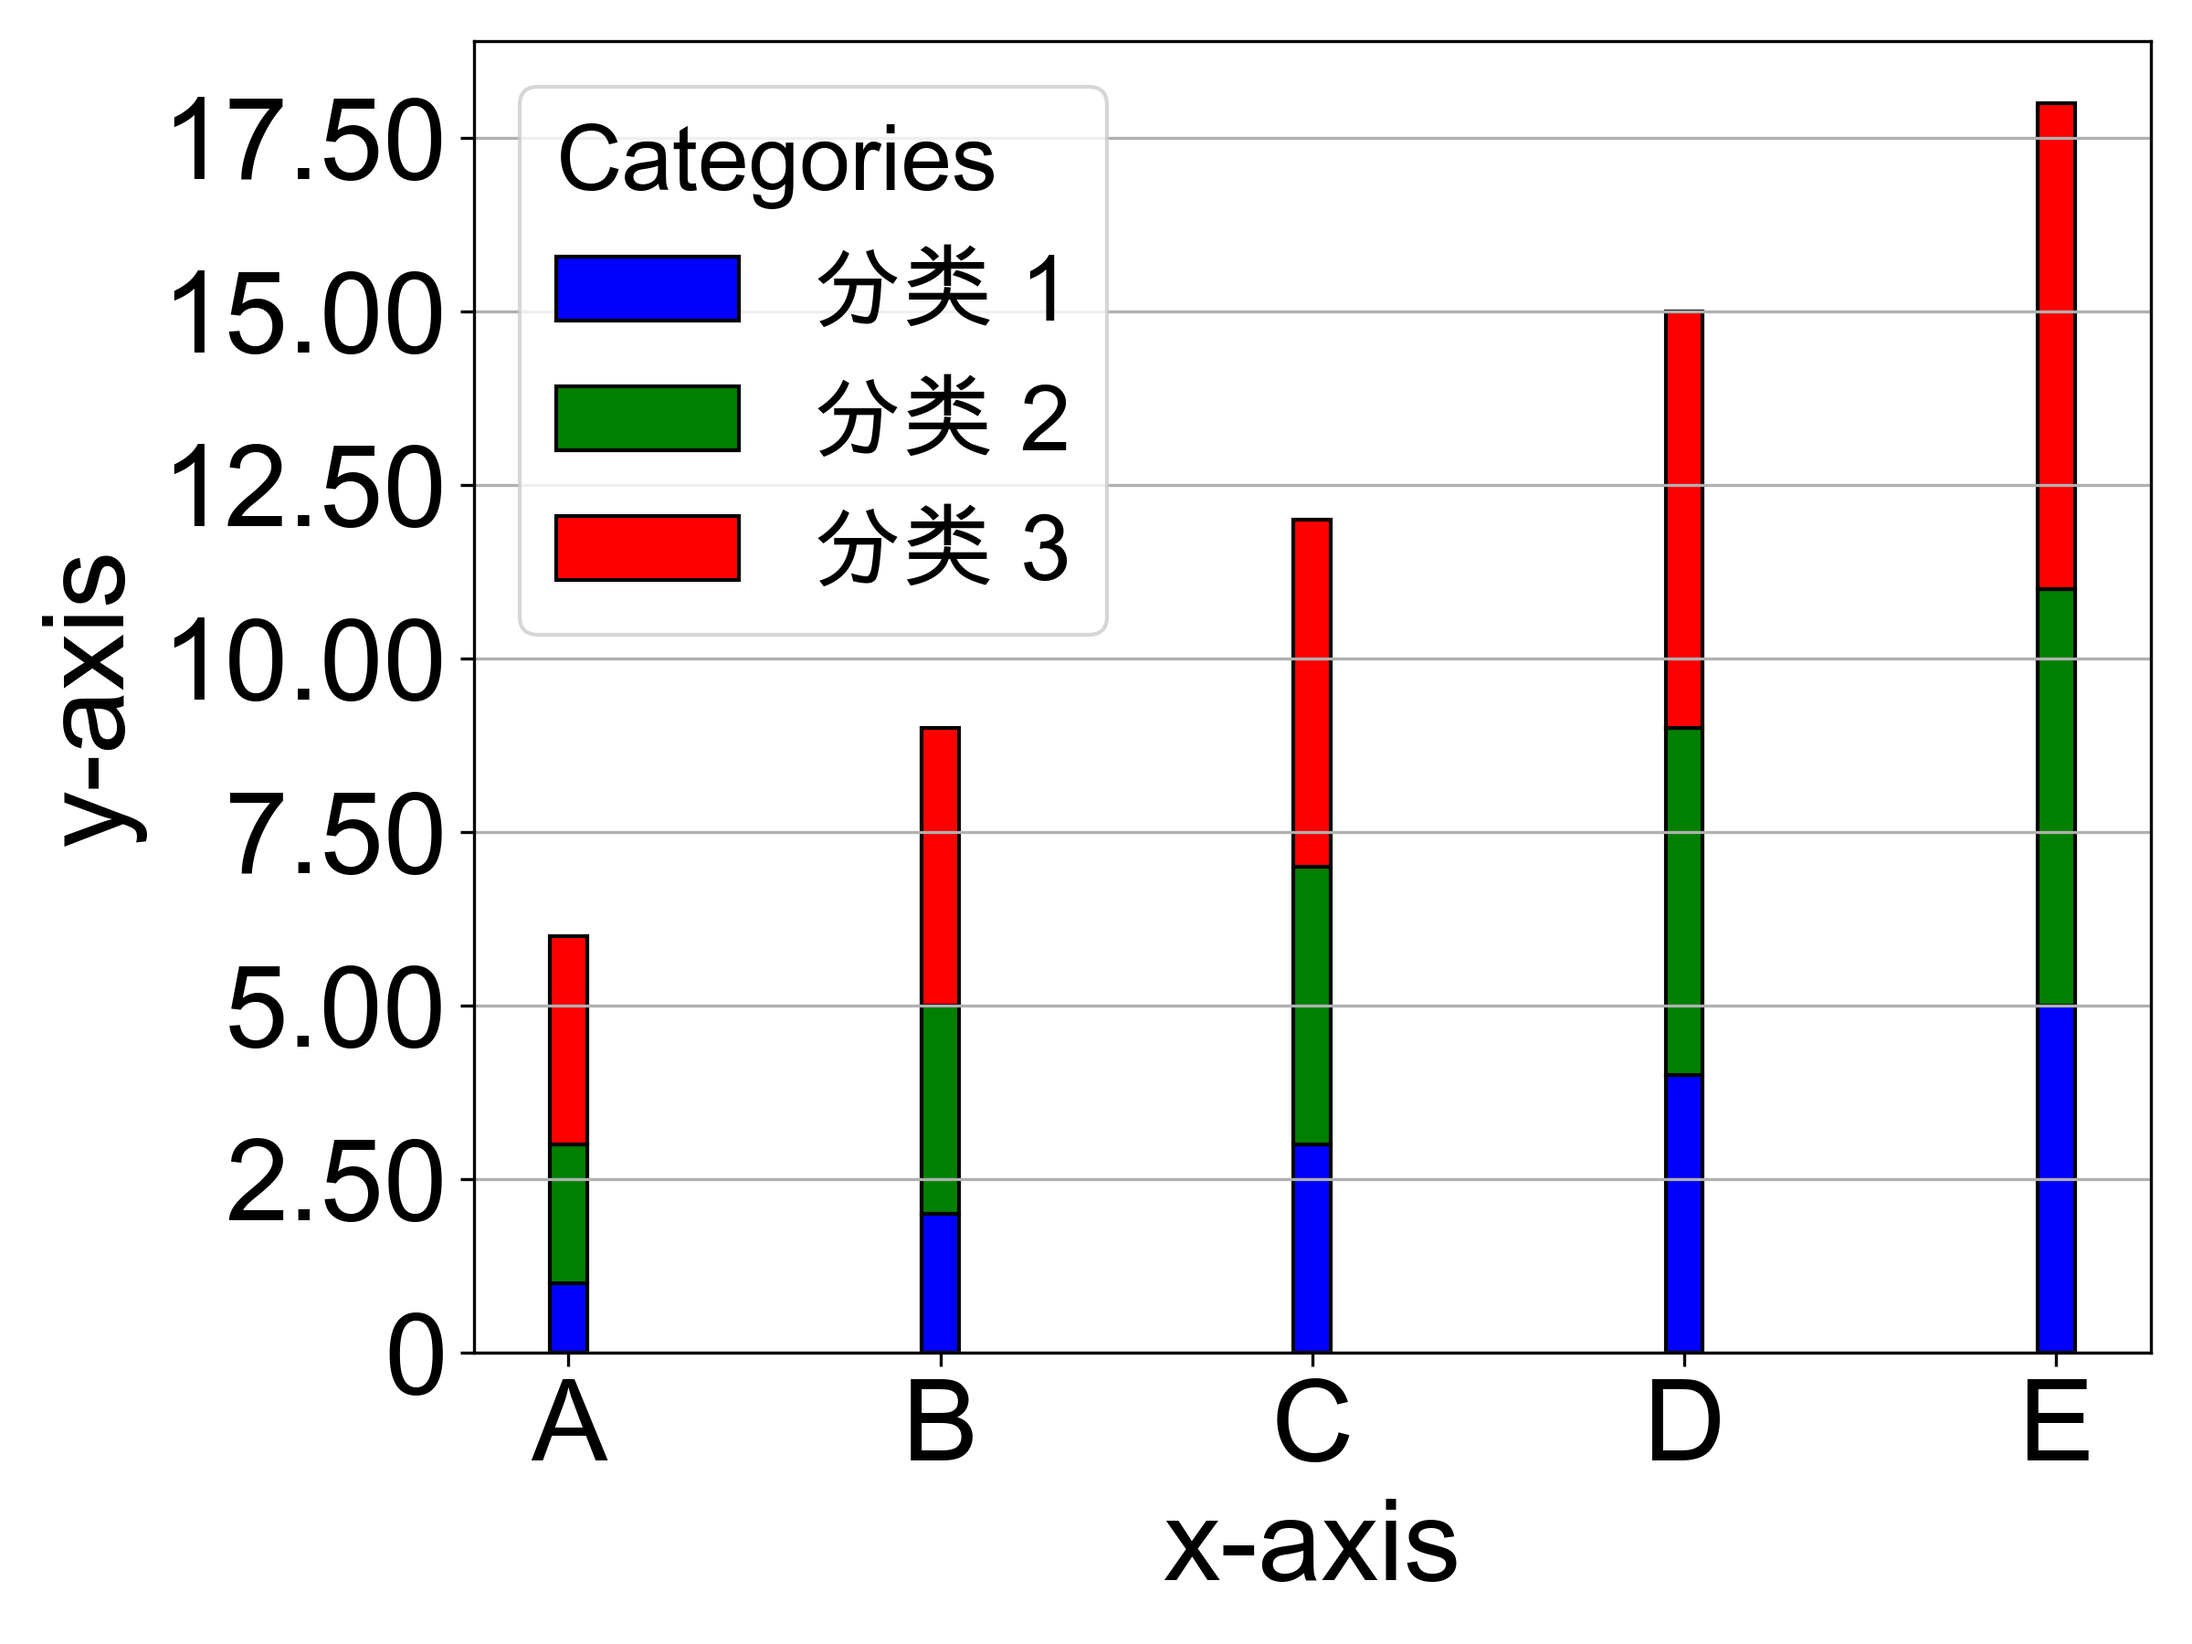
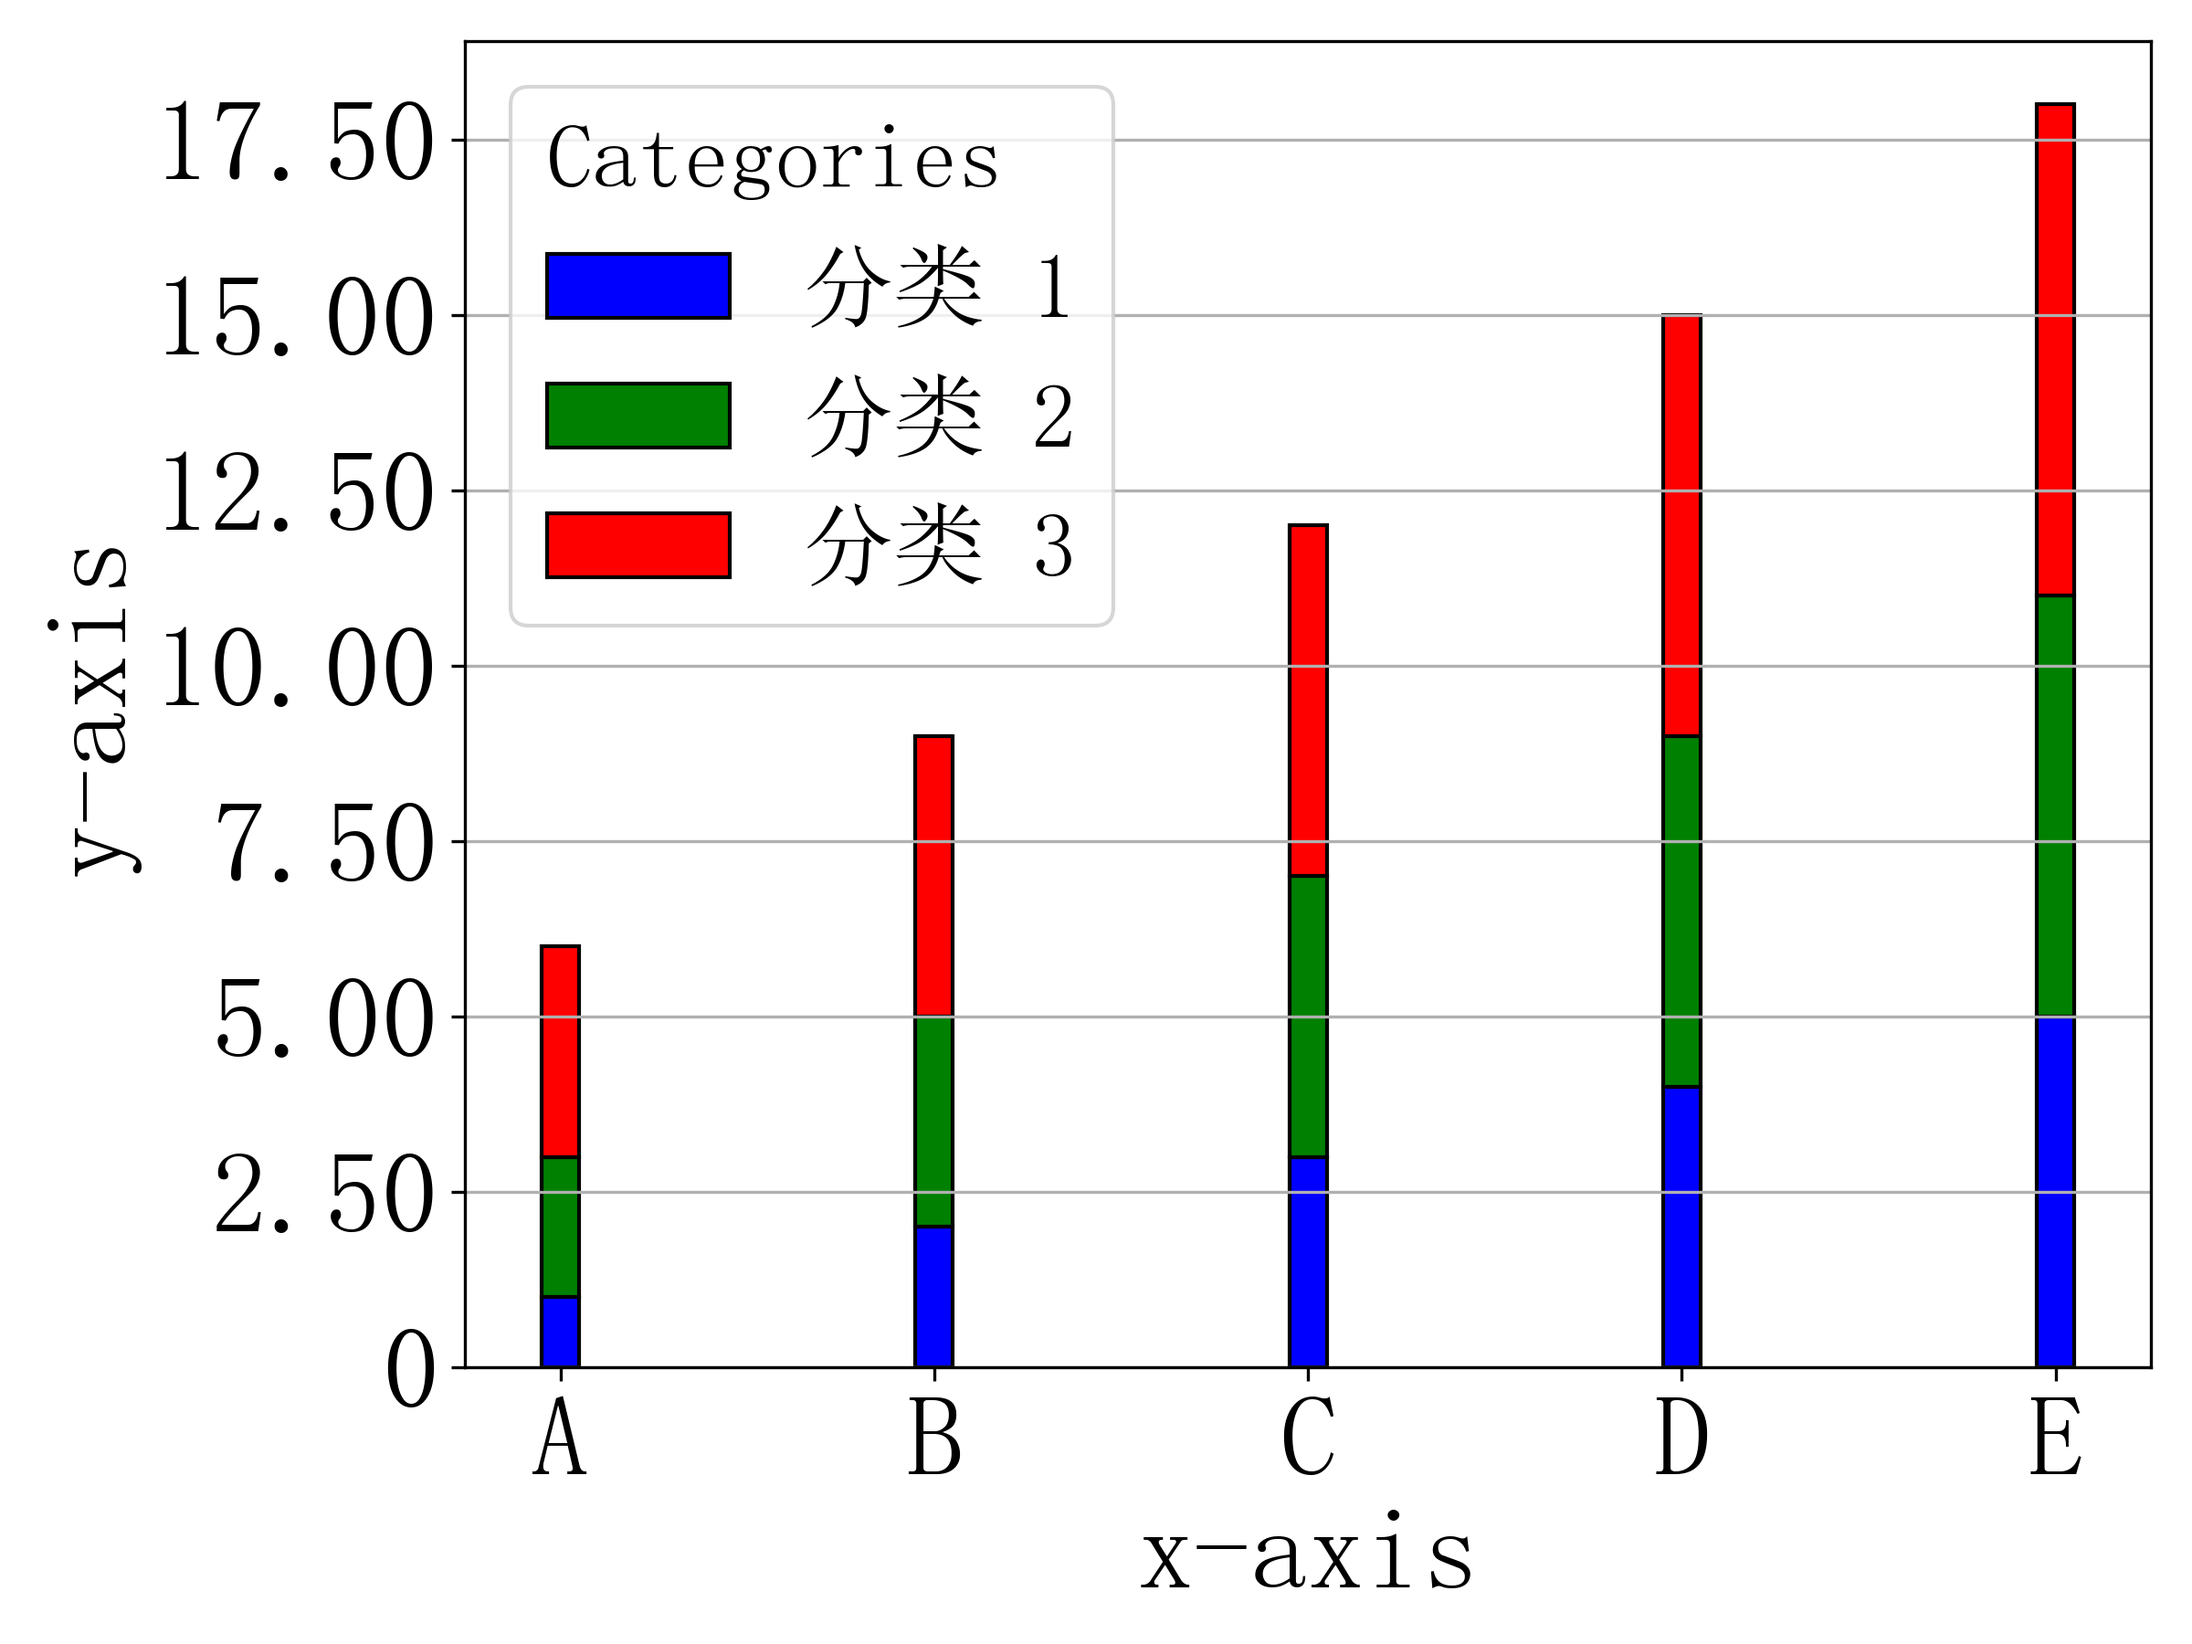
完成 stack_bars 第三方字体改造

Changed region(s): [[0.0312, 0.0311, 0.9688, 0.9644], [0.9062, 0.0622, 0.9688, 0.0933]]

diff --git a/py_plotter/plot.py b/py_plotter/plot.py
@@ -241,16 +241,19 @@ class Plotter(Pyplot_config):
         # 释放内存
         plt.close()
 
-    def plot_stack_bars(self, x_label="x", y_label="y", legend_title="legend", legend_ncol=1, bbox_to_anchor=None, y_tick_ndigits=2,
-                  legend_loc="best", x_data=None, bar_data_list=None, legend_label_list=None, y_min=None, y_max=None,
-                  x_grid=False, y_grid=True, save_root="./", filename="demo.png", is_hatch=False,
-                  is_show=False):
+    def plot_stack_bars(self, x_label="x", y_label="y", legend_title="legend", legend_ncol=1, bbox_to_anchor=None,
+                        y_tick_ndigits=2,
+                        legend_loc="best", x_data=None, bar_data_list=None, legend_label_list=None, y_min=None,
+                        y_max=None,
+                        x_grid=False, y_grid=True, save_root="./", filename="demo.png", is_hatch=False,
+                        is_show=False):
 
         plt.figure(figsize=self.figsize, dpi=self.dpi)
         ax = plt.subplot(111)
         # 设置轴的标签字体和大小
-        ax.set_xlabel(x_label, fontdict={'size': self.label_size})
-        ax.set_ylabel(y_label, fontdict={'size': self.label_size})
+        font_property = FontProperties(fname=self.font_path, size=self.label_size)
+        ax.set_xlabel(x_label, fontproperties=font_property)
+        ax.set_ylabel(y_label, fontproperties=font_property)
 
         # 分别画柱子
         r_base = np.arange(len(x_data))
@@ -263,7 +266,6 @@ class Plotter(Pyplot_config):
         bottom = np.zeros(len(x_data))
 
         for index, (bar_label, bar_data) in enumerate(zip(legend_label_list, bar_data_list)):
-
             ax.bar(r_base, bar_data, bottom=bottom, color=self.color_list[index], width=self.bar_width,
                    edgecolor=self.edge_color_list[index], label=legend_label_list[index],
                    hatch=hatch_list[index])  # 创建柱子
@@ -271,9 +273,8 @@ class Plotter(Pyplot_config):
             bottom += np.array(bar_data)
 
         # 添加x轴名称
-        plt.xticks([r for r in range(len(x_data))], x_data,
-                   size=self.label_size)
-        plt.yticks(size=self.label_size)
+        plt.xticks([r for r in range(len(x_data))], x_data, size=self.label_size, fontproperties=font_property)
+        plt.yticks(size=self.label_size, fontproperties=font_property)
 
         # 让角标变0
         ax = plt.gca()
@@ -281,9 +282,11 @@ class Plotter(Pyplot_config):
         ax.yaxis.set_major_formatter(y_formatter)
 
         # 创建图例
+        font_property_legend = FontProperties(fname=self.font_path, size=self.legend_size)
         legend = plt.legend(fontsize=self.legend_size, title=legend_title, loc=legend_loc, ncol=legend_ncol,
-                            bbox_to_anchor=bbox_to_anchor)
-        legend.get_title().set_fontsize(fontsize=self.legend_size)
+                            bbox_to_anchor=bbox_to_anchor, prop=font_property_legend)  # 设置图例项的字体属性
+        legend.get_title().set_fontsize(self.legend_size)  # 设置图例标题的字体大小
+        legend.get_title().set_font_properties(font_property_legend)  # 设置图例标题的字体属性
         legend._legend_box.align = "left"
 
         # 网格线
@@ -299,7 +302,7 @@ class Plotter(Pyplot_config):
                 plt.grid(axis=cmd)
 
         # 设置ylim
-        if y_min != None and y_max != None:
+        if y_min is not None and y_max is not None:
             plt.ylim(y_min, y_max)
         plt.tight_layout()
 
@@ -311,7 +314,6 @@ class Plotter(Pyplot_config):
             plt.show()
         # 释放内存
         plt.close()
-        pass
 
     @staticmethod
     def cal_cdf(input_data):

diff --git a/py_plotter/example.py b/py_plotter/example.py
@@ -33,14 +33,18 @@ def test_violin_twin():
 
 def test_stack_bars():
     # 创建一个Plotter实例
-    plotter = Plotter(figsize=(8, 6))
+    plotter = Plotter(
+        figsize=(8, 6),
+        font_thirdparty="SimSun",
+        font="Arial Unicode MS"
+    )
 
     # 准备数据
-    x_data = ['A', 'B', 'C', 'D', 'E']
+    x_data = ['A艾', 'B不', 'C', 'D', 'E']
     bar_data_list = [[1, 2, 3, 4, 5], [2, 3, 4, 5, 6], [3, 4, 5, 6, 7]]
-    legend_label_list = ['Category 1', 'Category 2', 'Category 3']
+    legend_label_list = ['分类 1', '分类 2', '分类 3']
 
-    plotter.plot_stack_bars(x_label="x-axis", y_label="y-axis", legend_title="Categories", legend_ncol=1, bbox_to_anchor=None,
+    plotter.plot_stack_bars(x_label="x-轴", y_label="y-轴", legend_title="Categories分类", legend_ncol=1, bbox_to_anchor=None,
                       y_tick_ndigits=2,
                       legend_loc="best", x_data=x_data, bar_data_list=bar_data_list,
                       legend_label_list=legend_label_list, y_min=None, y_max=None,
